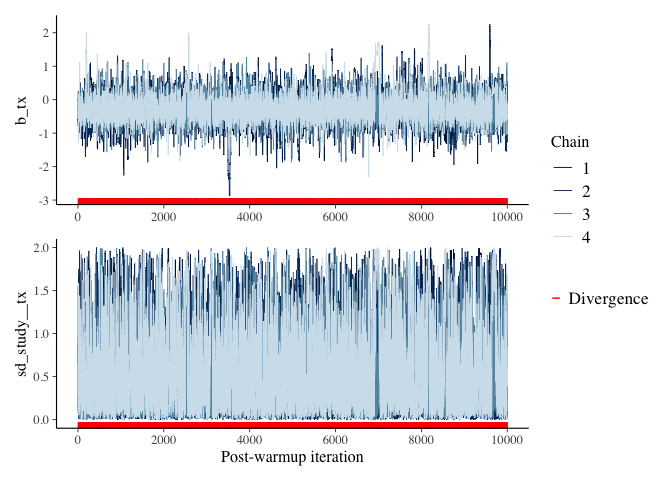
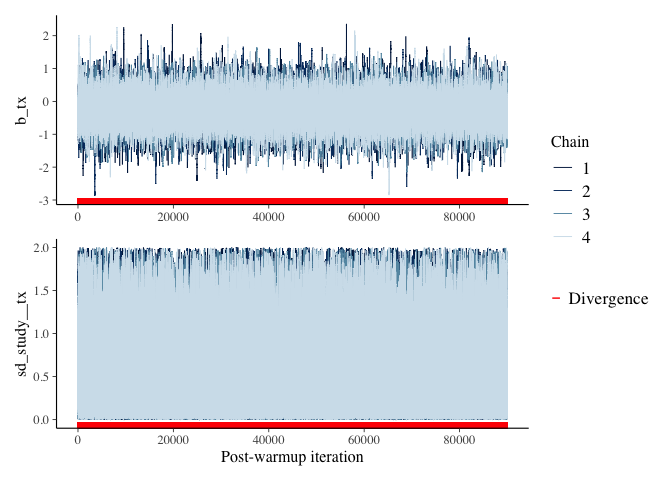
100k iterations

diff --git a/case_study.md b/case_study.md
@@ -1,7 +1,7 @@
 Case Study
 ================
 Arthur M. Albuquerque
-2022-07-23
+2022-07-24
 
 # Introduction
 
@@ -213,7 +213,7 @@ ma_toci =
   cores = parallel::detectCores(),
   chains = 4,
   warmup = 10000, 
-  iter = 20000, 
+  iter = 100000, 
   seed = 123
 )
 ```
@@ -229,13 +229,13 @@ rstan::check_hmc_diagnostics(ma_toci$fit)
     ## 
     ## Divergences:
 
-    ## 7195 of 40000 iterations ended with a divergence (17.9875%).
+    ## 61699 of 360000 iterations ended with a divergence (17.1386111111111%).
     ## Try increasing 'adapt_delta' to remove the divergences.
 
     ## 
     ## Tree depth:
 
-    ## 0 of 40000 iterations saturated the maximum tree depth of 10.
+    ## 0 of 360000 iterations saturated the maximum tree depth of 10.
 
     ## 
     ## Energy:
@@ -338,5 +338,5 @@ treatment effect parameter (*θ*, depicted as odds ratio below):
 fixef(ma_toci) |> tail(1) |> exp()
 ```
 
-    ##     Estimate Est.Error     Q2.5    Q97.5
-    ## tx 0.7530889  1.486241 0.361069 1.857915
+    ##     Estimate Est.Error      Q2.5    Q97.5
+    ## tx 0.7452419  1.459429 0.3543418 1.729179
